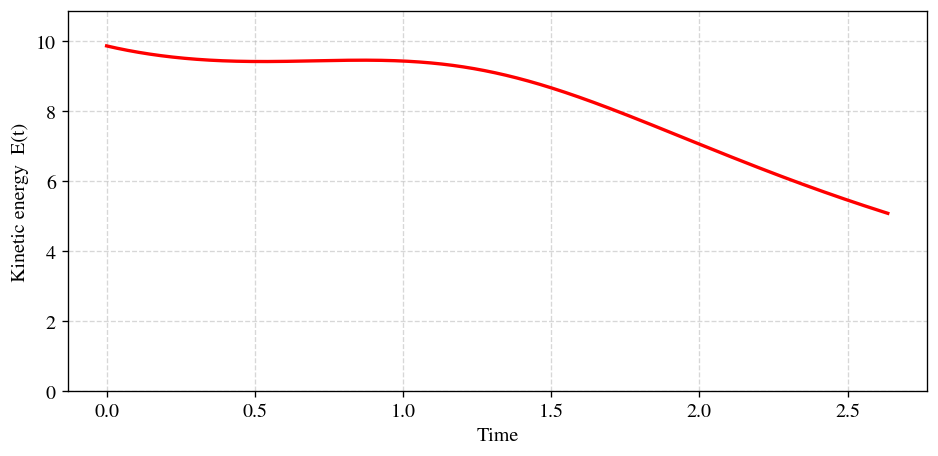
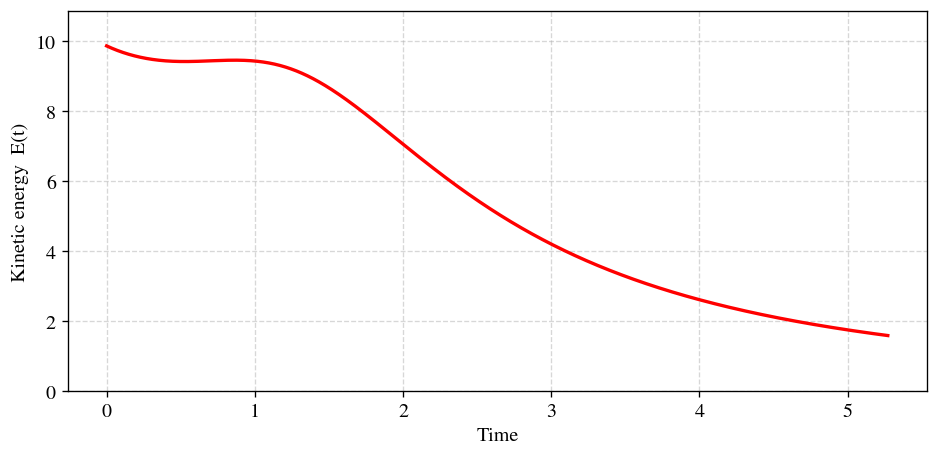
updated videos

diff --git a/burgersSolverGPU.py b/burgersSolverGPU.py
@@ -564,14 +564,14 @@ def runSimulation(PRECISION, BC_X, BC_Y, SIMULATION_IC, verbose, useAD, maxBackT
 if __name__ == "__main__":
     
     # ---- Simulation Configuration ---- #
-    SIMULATION_IC   = '4VC'           # 'TGV' (Taylor-Green Vortex), 'DSL' (Double Shear Layer), or '4VC' (4-Vortex Collision)      
+    SIMULATION_IC   = 'TGV'           # 'TGV' (Taylor-Green Vortex), 'DSL' (Double Shear Layer), or '4VC' (4-Vortex Collision)      
     PRECISION       = 'float64'
     BC_X            = PERIODIC
     BC_Y            = PERIODIC
     
     # ---- Physical Parameters ---- #
     nu              = 0.05
-    steps           = 8000
+    steps           = 10000
     Nx, Ny          = 512, 512
     Courant         = 0.7
 
@@ -596,7 +596,7 @@ if __name__ == "__main__":
     
     # ---- Plotting + I/O ---- #
     plot_steps      = 100
-    gif_fps         = 10
+    gif_fps         = 20
     displayPlot     = True
     figFolder       = "output"
 
